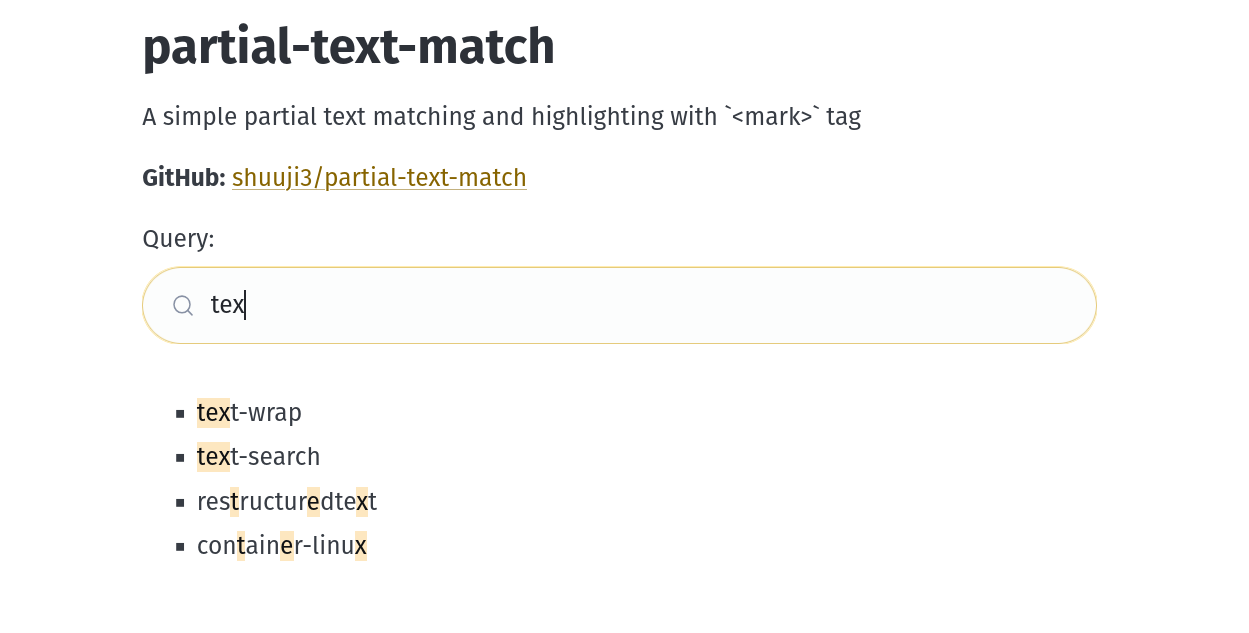
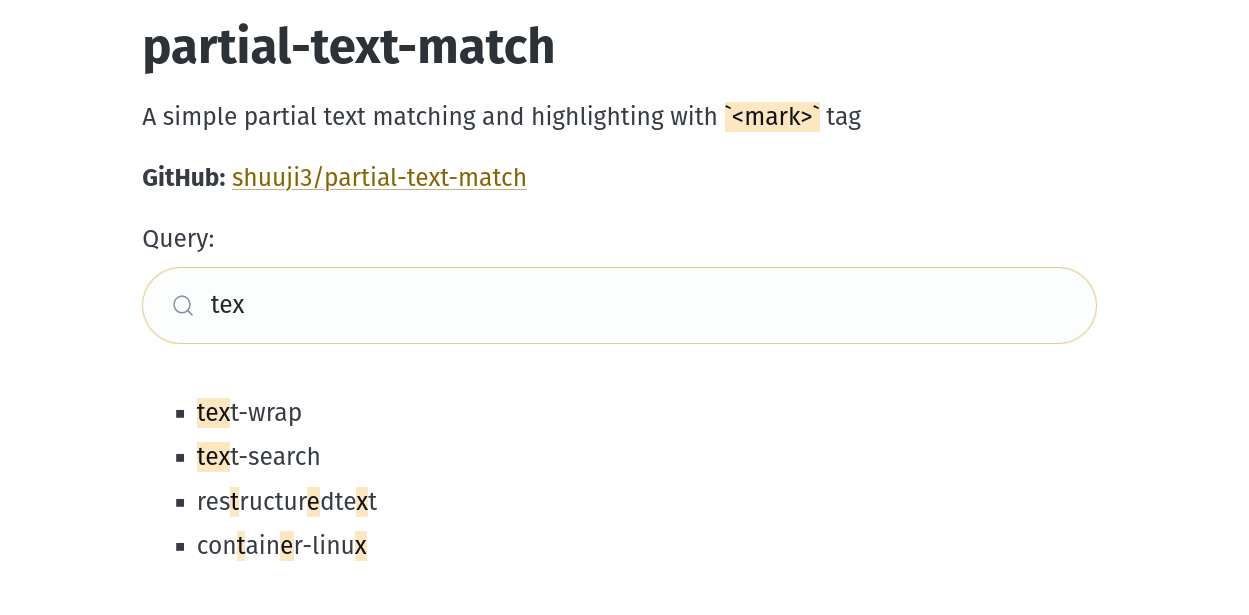
style: mark `<mark>` tag in text

diff --git a/app.vue b/app.vue
@@ -12,7 +12,7 @@ const words = computed(() => q.value ? search(q.value).map(word => mark(word, q.
     <NuxtRouteAnnouncer />
     <h1>partial-text-match</h1>
     <p>
-      A simple partial text matching and highlighting with `&lt;mark&gt;` tag
+      A simple partial text matching and highlighting with <mark>`&lt;mark&gt;`</mark> tag
     </p>
     <p>
       <strong>GitHub:</strong> <a href="https://github.com/shuuji3/partial-text-match">shuuji3/partial-text-match</a>
